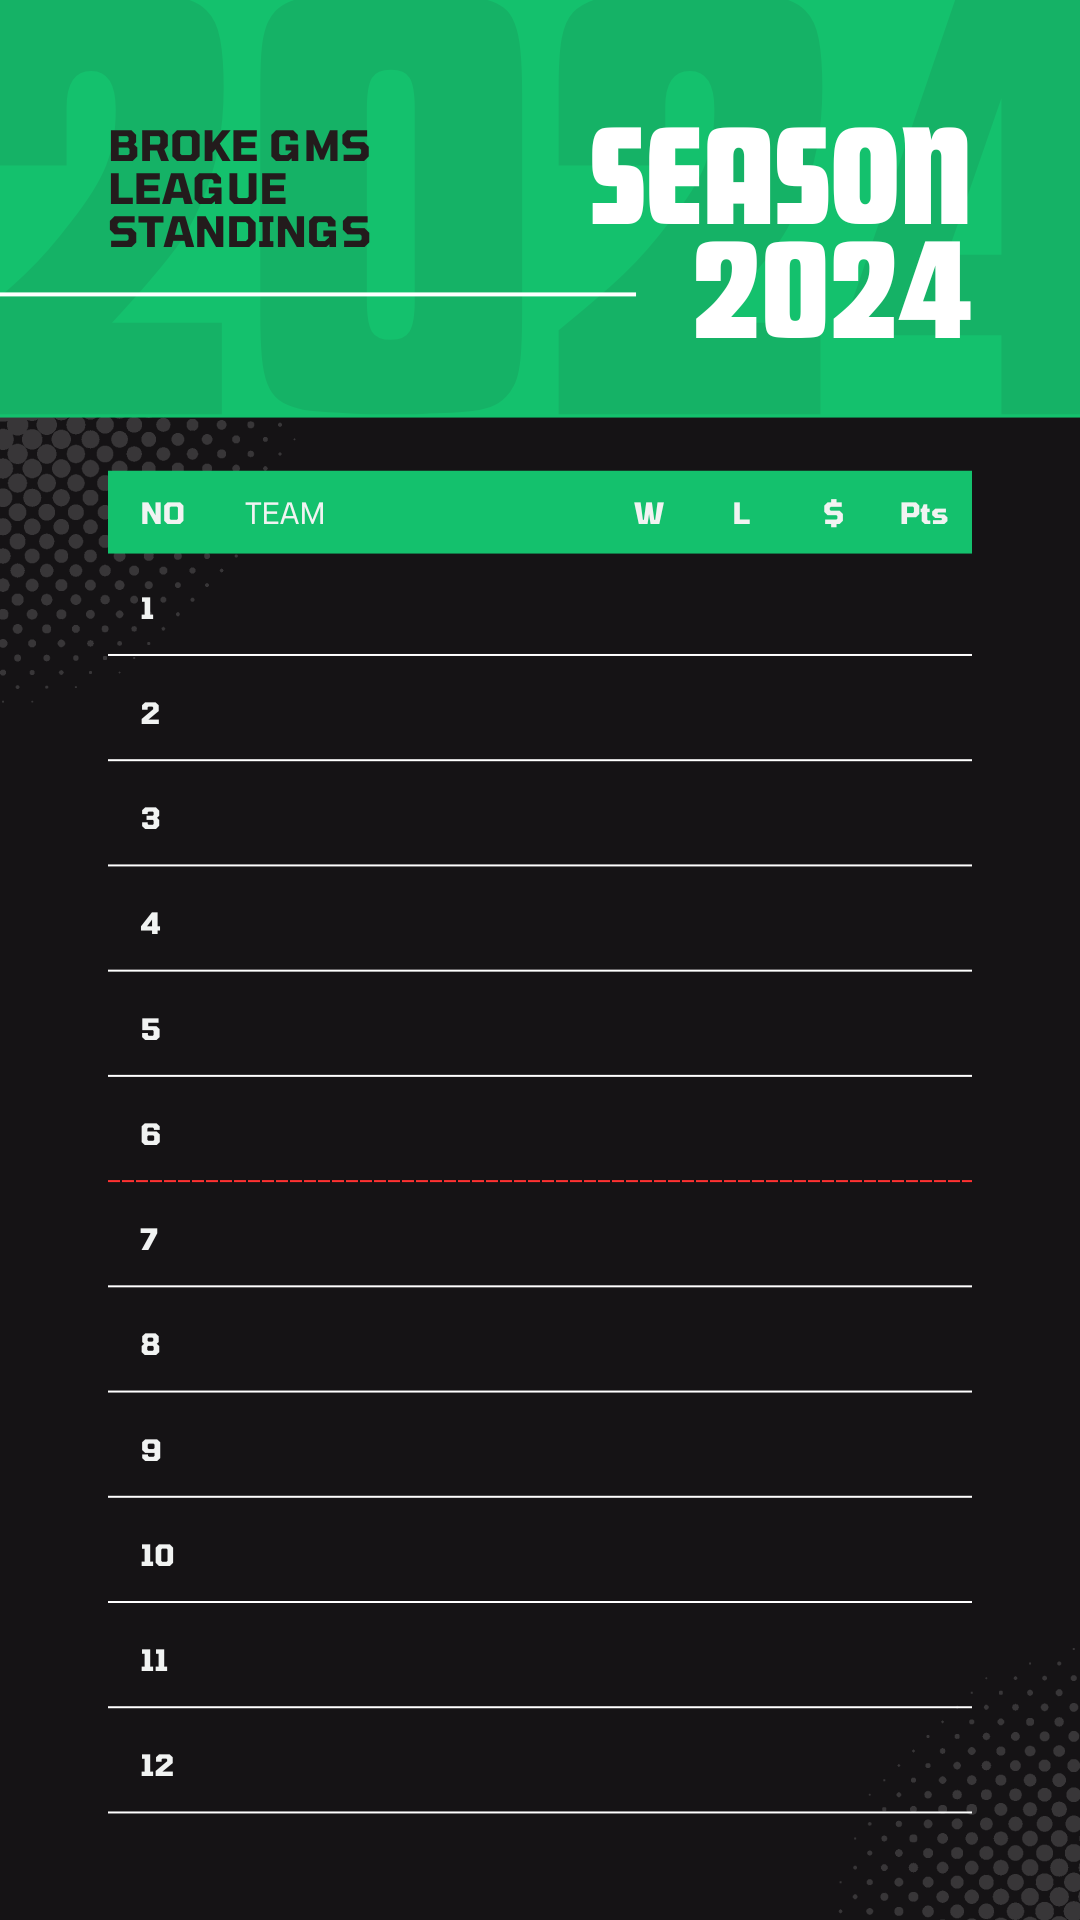
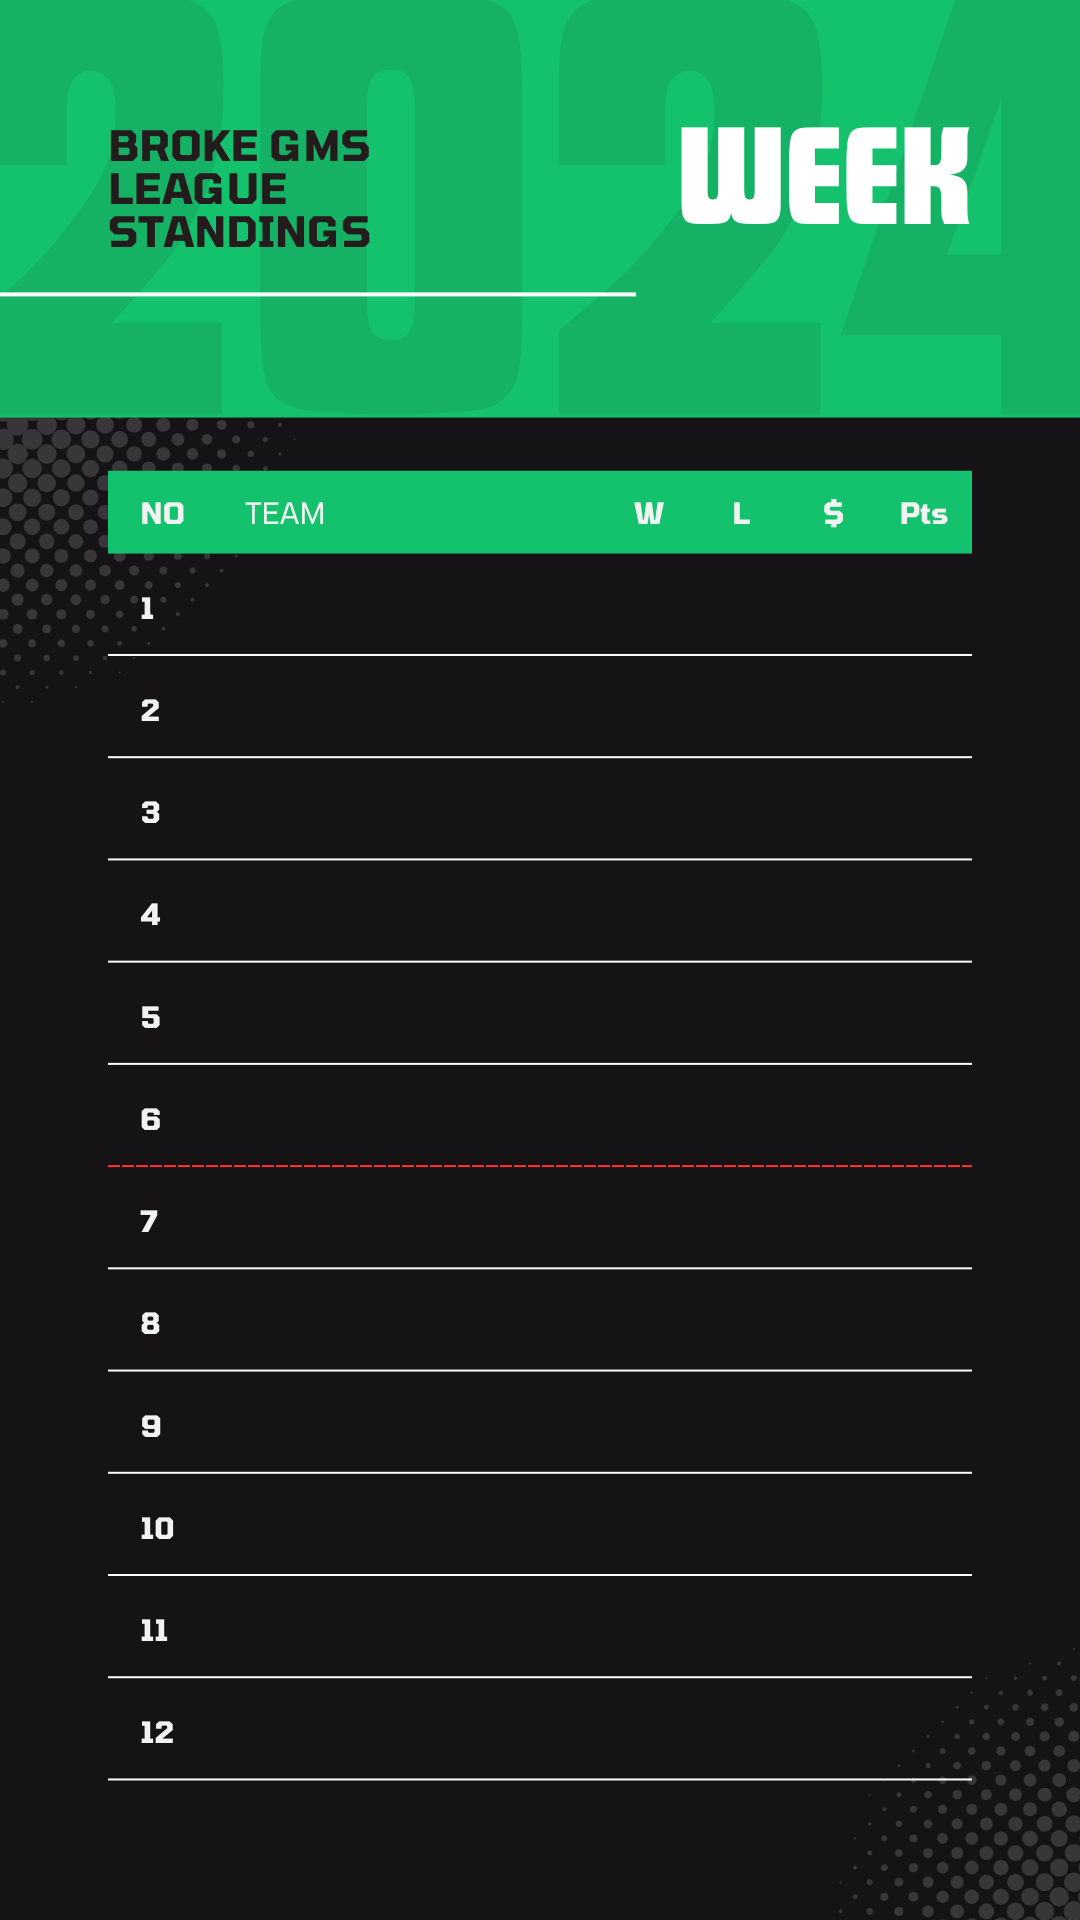
change template

diff --git a/image-processor.js b/image-processor.js
@@ -7,7 +7,7 @@ const __filename = fileURLToPath(import.meta.url)
 const __dirname = path.dirname(__filename)
 const TEMPLATE_PATH = path.join(
     __dirname,
-    './newTemplate.png'
+    './template.png'
 );
 
 export const generateStandingsPng = async (standings, week) => {
@@ -16,49 +16,57 @@ export const generateStandingsPng = async (standings, week) => {
 
     console.log("picture loaded");
     standings.forEach((roster, index) => {
-        const name = generateSVG(roster.display_name);
-        const wins = generateSVG(roster.wins.toString());
-        const losses = generateSVG(roster.losses.toString());
-        const payout = generateSVG(roster.payout.toString());
-        const points = generateSVG(roster.points.toString());
+        const nameSvg = generateSVG(roster.display_name);
+        const winsSvg = generateSVG(roster.wins.toString());
+        const lossesSvg = generateSVG(roster.losses.toString());
+        const payoutSvg = generateSVG(roster.payout.toString());
+        const pointsSvg = generateSVG(roster.points.toString());
+        const weekSvg = generateSVG(week.toString(), 120);
 
         const y = 587 + 102 * index;
 
         const nameOverlay = {
-            input: name,
+            input: nameSvg,
             top: y,
             left: 250
         };
 
         const winsOverlay = {
-            input: wins,
+            input: winsSvg,
             top: y,
             left: 643,
         };
 
         const lossesOverlay = {
-            input: losses,
+            input: lossesSvg,
             top: y,
             left: 737,
         };
 
         const payoutOverlay = {
-            input: payout,
+            input: payoutSvg,
             top: y,
             left: 813,
         };
 
         const pointsOverlay = {
-            input: points,
+            input: pointsSvg,
             top: y,
             left: 915
         };
+
+        const weekOverlay = {
+            input: weekSvg,
+            top: 215,
+            left: 905
+        }
 
         overlays.push(nameOverlay);
         overlays.push(winsOverlay);
         overlays.push(lossesOverlay);
         overlays.push(payoutOverlay);
         overlays.push(pointsOverlay);
+        overlays.push(weekOverlay)
     });
 
     await template.composite([

diff --git a/utils.js b/utils.js
@@ -17,11 +17,11 @@ export const getAndSortPtsAscMatchupForWeek = async (leagueId,week) => {
     return matchupForWeek;
 };
 
-export const generateSVG = (text) => {
+export const generateSVG = (text, fontSize = 30) => {
     const textToSVG = TextToSVG.loadSync("fonts/Tomorrow/Tomorrow-Medium.ttf");
 	try {
 		const svg = textToSVG.getSVG(text, {
-			fontSize: 30,
+			fontSize,
 			anchor: 'top',
 			attributes: { fill: 'white' },
 		})
